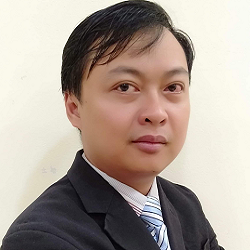
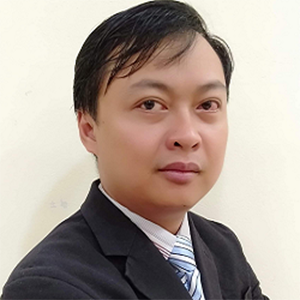
update reponsive
update reponsive

diff --git a/index.html b/index.html
@@ -132,7 +132,7 @@
                             <div class="text-service">
                                 <strong>Mobile Apps Development</strong>
                                 <p>
-                                    IOS and Android app development. Why pick a platform? Get your native or HTML5 apps to support all the major mobile platforms. <a href="mobileapps.html">Read more</a>
+                                    IOS and Android app development. Why pick a platform? Get your native or HTML5 apps to support all the major mobile platforms.
                                 </p>
                             </div>
                         </div>
@@ -166,7 +166,7 @@
                             <div class="text-service">
                                 <strong>AI Solutions</strong>
                                 <p>
-                                    Using the power of machine learning tools and technologies, our AI experts and development team offer comprehensive and cutting-edge solutions to your current or potential business needs. <a href="aisolutions.html">Read more</a>
+                                    Using the power of machine learning tools and technologies, our AI experts and development team offer comprehensive and cutting-edge solutions to your current or potential business needs.
                                 </p>
                             </div>
                         </div>
@@ -183,7 +183,7 @@
                             <div class="text-service">
                                 <strong>Embedded Systems</strong>
                                 <p>
-                                    We're experienced in automotive domain with car navigation, ECU unit testing and development, drivers development, firmware middleware development. <a href="embedded.html">Read more</a>
+                                    We're experienced in automotive domain with car navigation, ECU unit testing and development, drivers development, firmware middleware development.
                                 </p>
 
                             </div>
@@ -201,7 +201,7 @@
                             <div class="text-service">
                                 <strong>BPO (Business Process Outsourcing)</strong>
                                 <p>
-                                    Experience in simple jobs like data entry, labeling image with high productivity and low costs. <a href="bpo.html">Read more</a>
+                                    Experience in simple jobs like data entry, labeling image with high productivity and low costs.
                                 </p>
                             </div>
                         </div>
@@ -456,7 +456,8 @@
                         <div class="bx-wrapper" style="max-width: 100%; margin: 0px auto;">
                             <div class="bx-viewport0" style="width: 100%; overflow: hidden; position: relative;">
                                 <div class="col-md-4">
-                                    <div class="img-avt-1">
+                                    <div class="img-avt">
+                                        <img src="assets/images/ceo.png" />
                                         <div class="name-img">Mr.Peter Ngo</div>
                                     </div>
                                 </div>
@@ -468,7 +469,7 @@
                                         CEO
                                     </div>
                                     <div class="destails-profile">
-                                        Peter Ngo is a business and technical leader in the Information Technology outsourcing industry with 12 years of experience in working with large corprations and agile startups in the US, Japan, Korea, and Vietnam. Peter has worked on all important roles in software development from software engineer to delivery manager. Prior to founding NAPA Global, Peter was a Business Unit Director at FPT, one of the leading IT companies in Asia. Peter continues to bring his deep understanding in technology and business to help NAPA Global's clients achieve their business goals.
+                                        Peter Ngo is a business and technical leader in the Information Technology outsourcing industry with 12 years of experience in working with large corporations and agile startups in the US, Japan, Korea, and Vietnam. Peter has worked on all important roles in software development from software engineer to delivery manager. Prior to founding NAPA Global, Peter was a Business Unit Director at FPT, one of the leading IT companies in Asia. Peter continues to bring his deep understanding in technology and business to help NAPA Global's clients achieve their business goals.
                                     </div>
                                 </div>
 
@@ -476,7 +477,8 @@
                             </div>
                             <div class="bx-viewport1" style="width: 100%; overflow: hidden; position: relative;">
                                 <div class="col-md-4">
-                                    <div class="img-avt-2">
+                                    <div class="img-avt">
+                                        <img src="assets/images/avt-kimbui.png" />
                                         <div class="name-img">Ms. Kimberly Bui</div>
                                     </div>
 
@@ -497,26 +499,27 @@
                             </div>
                             <div class="bx-viewport2" style="width: 100%; overflow: hidden; position: relative;">
                                 <div class="col-md-4">
-                                    <div class="img-avt-3">
-                                        <div class="name-img">Mr.Peter Ngo</div>
+                                    <div class="img-avt">
+                                        <img src="assets/images/hung-le.png" />
+                                        <div class="name-img">Mr. Azel Le</div>
                                     </div>
 
                                 </div>
                                 <div class="col-md-8">
                                     <div class="name-profile">
-                                        Mr. Nathan Dinh
+                                        Mr. Azel Le
                                     </div>
                                     <div class="visual-profile">
-                                        CHAIRMAN
+                                        Vice President
                                     </div>
                                     <div class="destails-profile">
-                                        Lorem ipsum dolor sit amet, consectetur adipiscing elit. Donec id nisi iaculis, ultrices nibh eu, ornare diam. Vivamus hendrerit ultricies purus, vel facilisis dui pulvinar sed. Ut et diam velit. In ac dui et nulla interdum pellentesque. Nulla porta dolor at urna posuere ullamcorper.
+                                        Azel Le is an experienced technologist and a serial entrepreneur with more than 10 years of working experience in the Information Technology industry. He is an expert in the embedded system domain and has helped many automotive companies solve their challenging engineering problems. Azel Le has also founded several startups providing services in IT and international trading. Azel continues to bring his vision and expertise to help expand NAPA Global's networks while delivering high quality services to our clients.
                                     </div>
                                 </div>
                             </div>
                             <div class="bx-viewport3" style="width: 100%; overflow: hidden; position: relative;">
                                 <div class="col-md-4">
-                                    <div class="img-avt-4">
+                                    <div class="img-avt">
                                         <div class="name-img">Mr.Peter Ngo</div>
                                     </div>
 
@@ -546,7 +549,7 @@
                             <img src="assets/images/avt-kimbui-sm.jpg" />
                         </div>
                         <div class="item3">
-                            <img src="assets/images/ava_TrungIzi.png" />
+                            <img src="assets/images/hung-le-xs.png" />
                         </div>
                         <div class="item3">
                             <img src="assets/images/ava_TrungIzi.png" />

diff --git a/assets/css/layout.css b/assets/css/layout.css
@@ -1564,9 +1564,6 @@ footer p {
         text-align: justify;
     }
 
-    .img-avt {
-        height: 310px !important;
-    }
 }
 
 
@@ -2347,82 +2344,26 @@ i.up {
         font-size: 14px;
     }
 
-.img-avt-1 {
-    background-image: url(../images/ceo.png);
+.img-avt {
+    /*background-image: url(../images/ceo.png);*/
     /* width: 300px; */
-    height: 290px;
+    /*height: 290px;*/
     border: 1.5px solid #6c3a9d;
     background-size: cover;
-    position: relative;
+    /*position: relative;*/
 }
 
-    .img-avt-1 .name-img {
-        position: absolute;
+    .img-avt .name-img {
+        /*position: absolute;*/
         font-weight: 600;
-        bottom: 0px;
+        /*bottom: 0px;*/
         text-align: center;
         width: 100%;
         line-height: 50px;
         background-color: #6c3b9dd9;
         font-size: 20px;
     }
-.img-avt-2 {
-    background-image: url('../images/avt-kimbui.jpg');
-    /* width: 300px; */
-    height: 290px;
-    border: 1.5px solid #6c3a9d;
-    background-size: cover;
-    position: relative;
-}
 
-    .img-avt-2 .name-img {
-        position: absolute;
-        font-weight: 600;
-        bottom: 0px;
-        text-align: center;
-        width: 100%;
-        line-height: 50px;
-        background-color: #6c3b9dd9;
-        font-size: 20px;
-    }
-    .img-avt-3 {
-    background-image: url(../images/ceo-demo.jpg);
-    /* width: 300px; */
-    height: 290px;
-    border: 1.5px solid #6c3a9d;
-    background-size: cover;
-    position: relative;
-}
-
-    .img-avt-3 .name-img {
-        position: absolute;
-        font-weight: 600;
-        bottom: 0px;
-        text-align: center;
-        width: 100%;
-        line-height: 50px;
-        background-color: #6c3b9dd9;
-        font-size: 20px;
-    }
-.img-avt-4 {
-    background-image: url(../images/ceo-demo.jpg);
-    /* width: 300px; */
-    height: 290px;
-    border: 1.5px solid #6c3a9d;
-    background-size: cover;
-    position: relative;
-}
-
-    .img-avt-4 .name-img {
-        position: absolute;
-        font-weight: 600;
-        bottom: 0px;
-        text-align: center;
-        width: 100%;
-        line-height: 50px;
-        background-color: #6c3b9dd9;
-        font-size: 20px;
-    }
 .bx-viewport1 {
     display: none;
 }
@@ -2911,10 +2852,6 @@ i.up {
         margin-top: 75px !important;
         padding-top: 0px !important;
         padding-bottom: 30px !important;
-    }
-
-    .img-avt {
-        height: 250px !important;
     }
 
     #service .detail-service {

diff --git a/blockchain_prj_4.html b/blockchain_prj_4.html
@@ -7,7 +7,7 @@
 
 <head>
     <meta charset="utf-8">
-    <title>Napa Global</title>
+    <title>NAPA Global</title>
     <link rel="shortcut icon" type="image/x-icon" href="assets/images/favicon-32x32.png">
     <meta name="keywords" content="website design,napaglobal web design,web company napaglobal,mobile applications,app development napaglobal,app design,ios apps,android apps,graphics,arts,motion design,napaglobal, embedded system napaglobal,blockchain solutions napaglobal, ">
     <meta name="description" content="Napa Global is an information technology company for website design and mobile apps development, blockchain solutions and embedded system development. Delivering top quality cross-platform software development for iOS, Android and Windows Phone. Business Process Outsourcing services."><!-- mobile settings-->
@@ -119,9 +119,9 @@
                     <p class="header-every-3">The Solution</p>
                     <p class="content-every-3">
                         We are in charge of development of full service. </br>
-						Studying and analyzising requirement </br>
-						Implementation </br>
-						Supporting deployment </br>
+                        Studying and analyzising requirement </br>
+                        Implementation </br>
+                        Supporting deployment </br>
 
                     </p>
                 </div>
@@ -130,7 +130,7 @@
                     <p class="content-every-3">
                         NodeJS<br />
                         Block Chain<br />
-						MySQL
+                        MySQL
                     </p>
                 </div>
             </div>
@@ -422,7 +422,7 @@
 
     </script>
 
-   
+
 </body>
 
 </html>

diff --git a/blockchain.html b/blockchain.html
@@ -254,7 +254,7 @@
                           
 
                             <li class="isotope-item col-sm-6 col-md-3 blockchain web">
-                                <a href="blockchain_prj_3.html">
+                                <a href="blockchain_prj_1.html">
                                     <div class="item-box">
                                         <figure>
                                             <img class="img-responsive" src="assets/images/demo/block3.jpg" height="263">
@@ -287,7 +287,7 @@
                             </li>
 
                             <li class="isotope-item col-sm-6 col-md-3 blockchain">
-                                <a href="blockchain_prj_1.html">
+                                <a href="blockchain_prj_3.html">
                                     <div class="item-box">
                                         <figure>
                                             <img class="img-responsive" src="assets/images/demo/block1.jpg" height="263">

diff --git a/blockchain_prj_2.html b/blockchain_prj_2.html
@@ -1,12 +1,10 @@
-@@ -0,0 +1,477 @@
-
-
-<!DOCTYPE html>
+<!DOCTYPE html>
 <!--if IE 8html.ie.ie8  -->
 <!--if IE 9html.ie.ie9  -->
 <!-- [if gt IE 9] <!-->
 <html>
 <!-- <![endif]-->
+
 <head>
     <meta charset="utf-8">
     <title>NAPA Global</title>
@@ -400,7 +398,7 @@
         $(document).ready(function () { })
         $('.owl-carousel').owlCarousel({
             loop: false,
-            margin: 10,
+            margin: 30,
             responsiveClass: true,
             responsive: {
                 0: {
@@ -416,7 +414,7 @@
                     items: 3,
                 },
                 1000: {
-                    items: 5,
+                    items: 3,
                 }
             }
         })

diff --git a/blockchain_prj_3.html b/blockchain_prj_3.html
@@ -1,7 +1,4 @@
-@@ -0,0 +1,467 @@
-
-
-<!DOCTYPE html>
+<!DOCTYPE html>
 <!--if IE 8html.ie.ie8  -->
 <!--if IE 9html.ie.ie9  -->
 <!-- [if gt IE 9] <!-->
@@ -386,7 +383,7 @@
         $(document).ready(function () { })
         $('.owl-carousel').owlCarousel({
             loop: false,
-            margin: 10,
+            margin: 30,
             responsiveClass: true,
             responsive: {
                 0: {
@@ -402,7 +399,7 @@
                     items: 3,
                 },
                 1000: {
-                    items: 5,
+                    items: 3,
                 }
             }
         })
@@ -425,7 +422,7 @@
 
     </script>
 
-   
+
 </body>
 
 </html>
